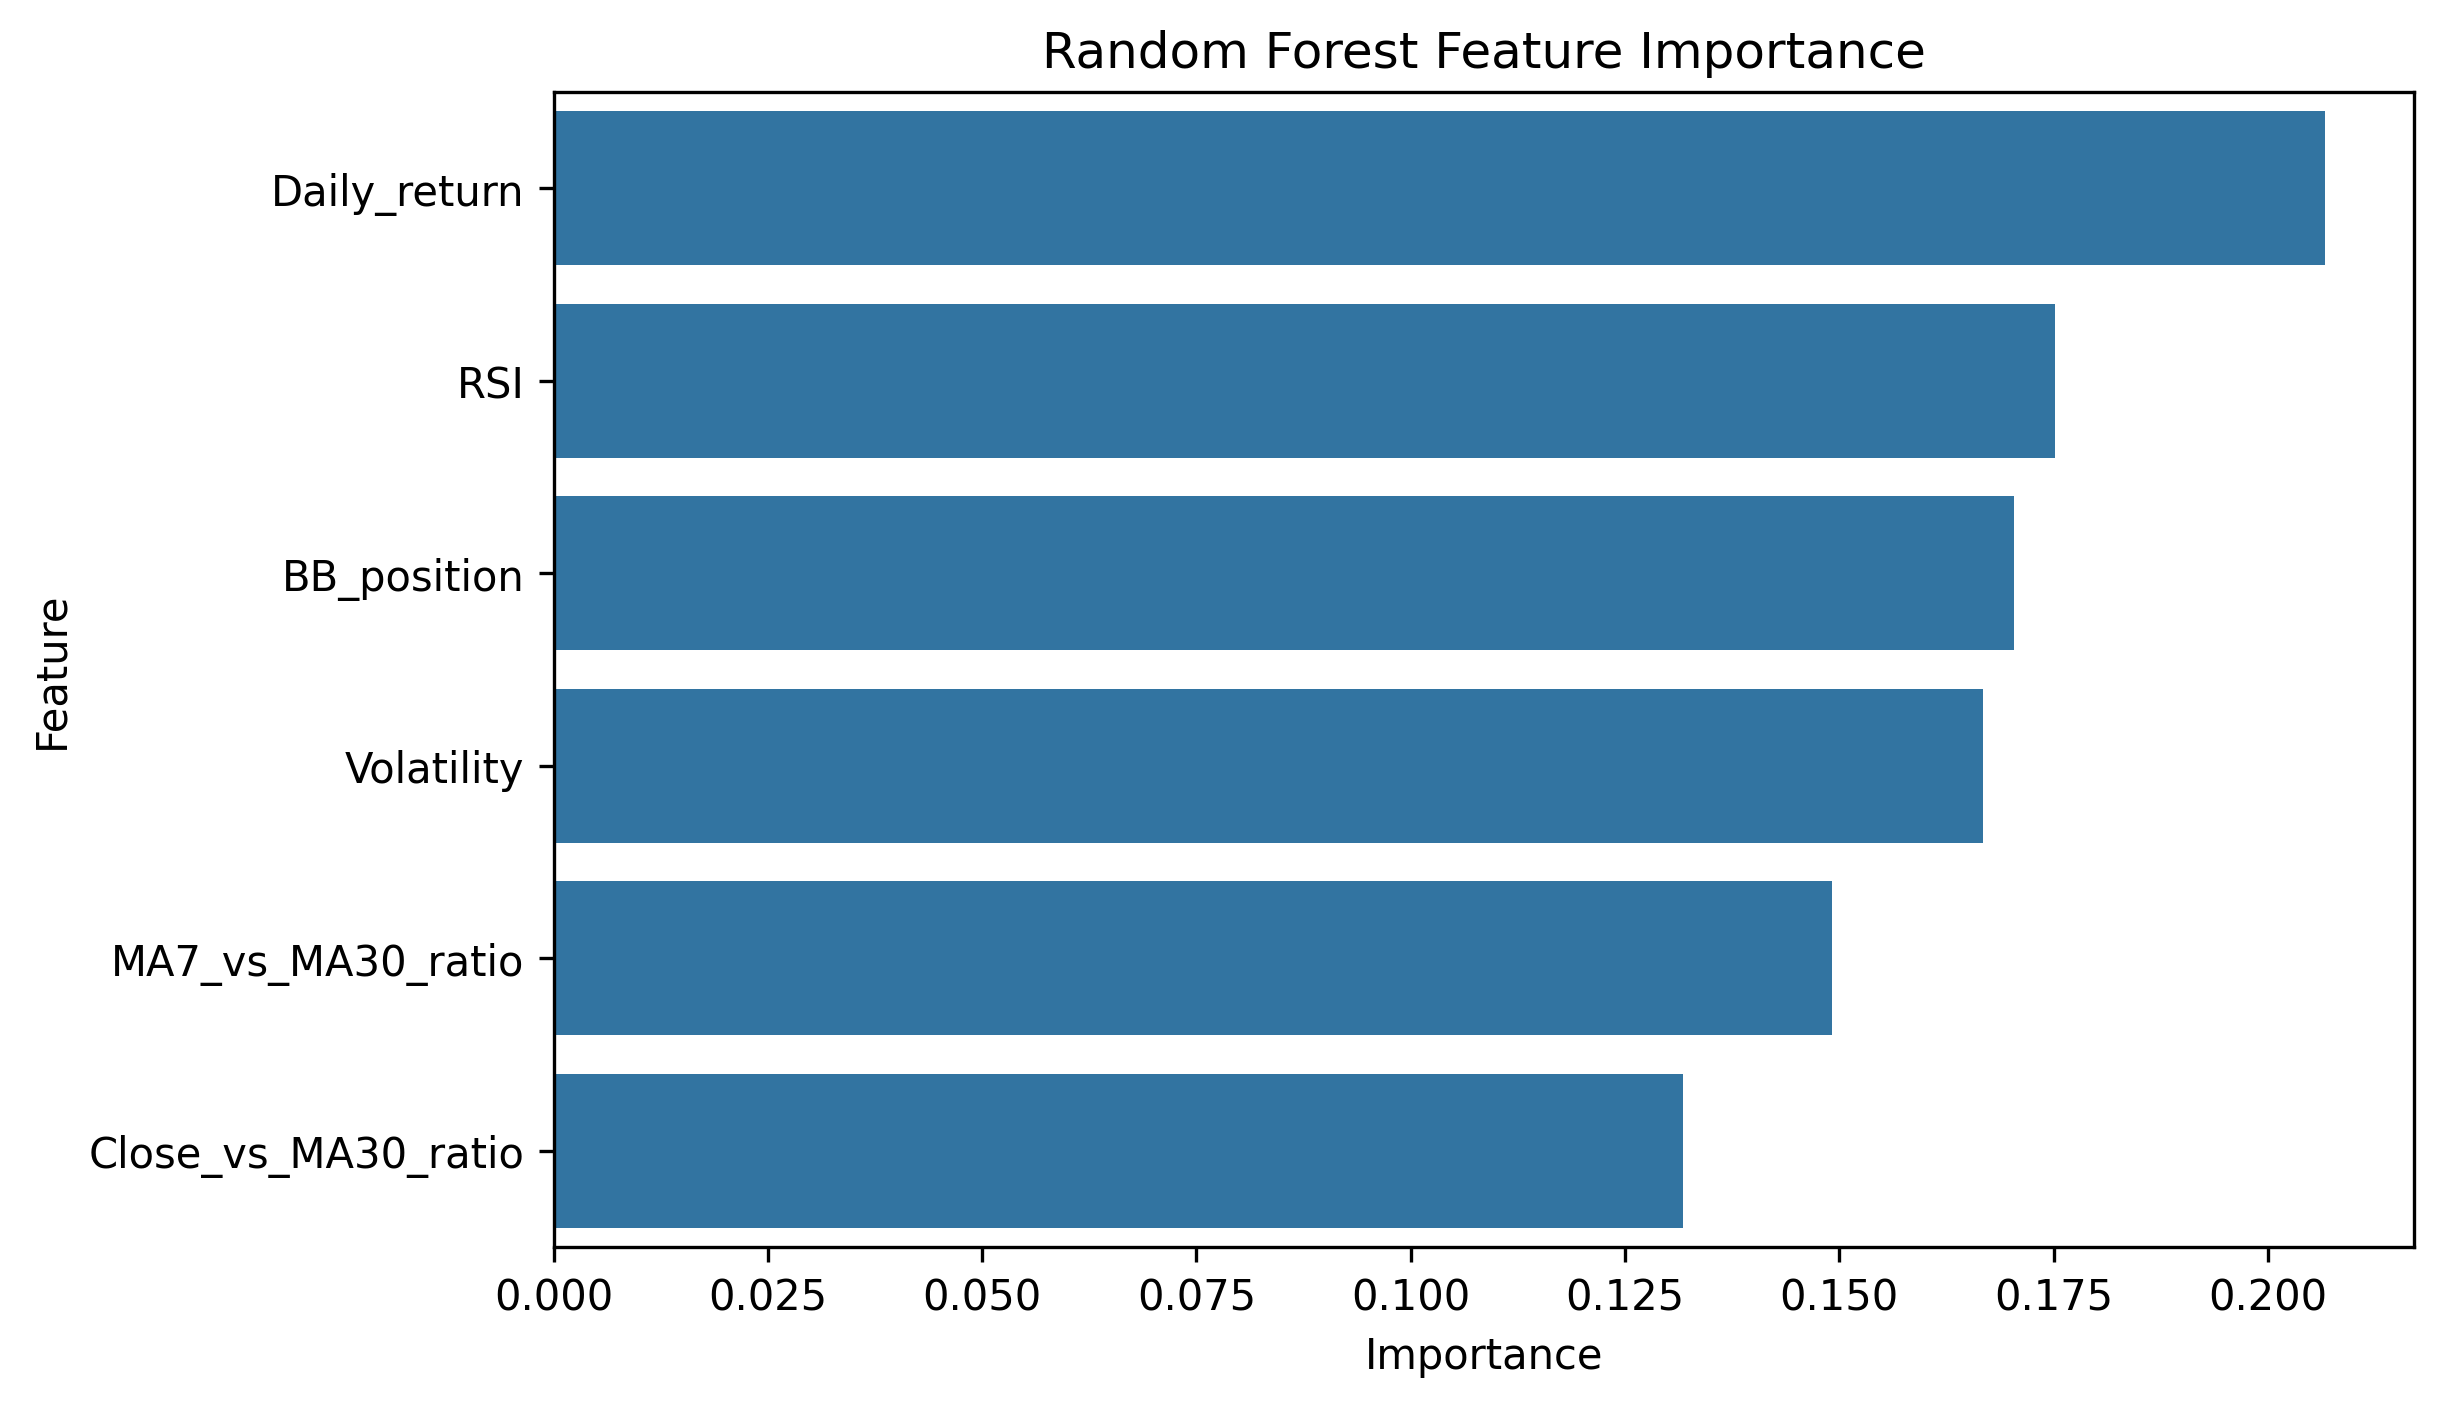
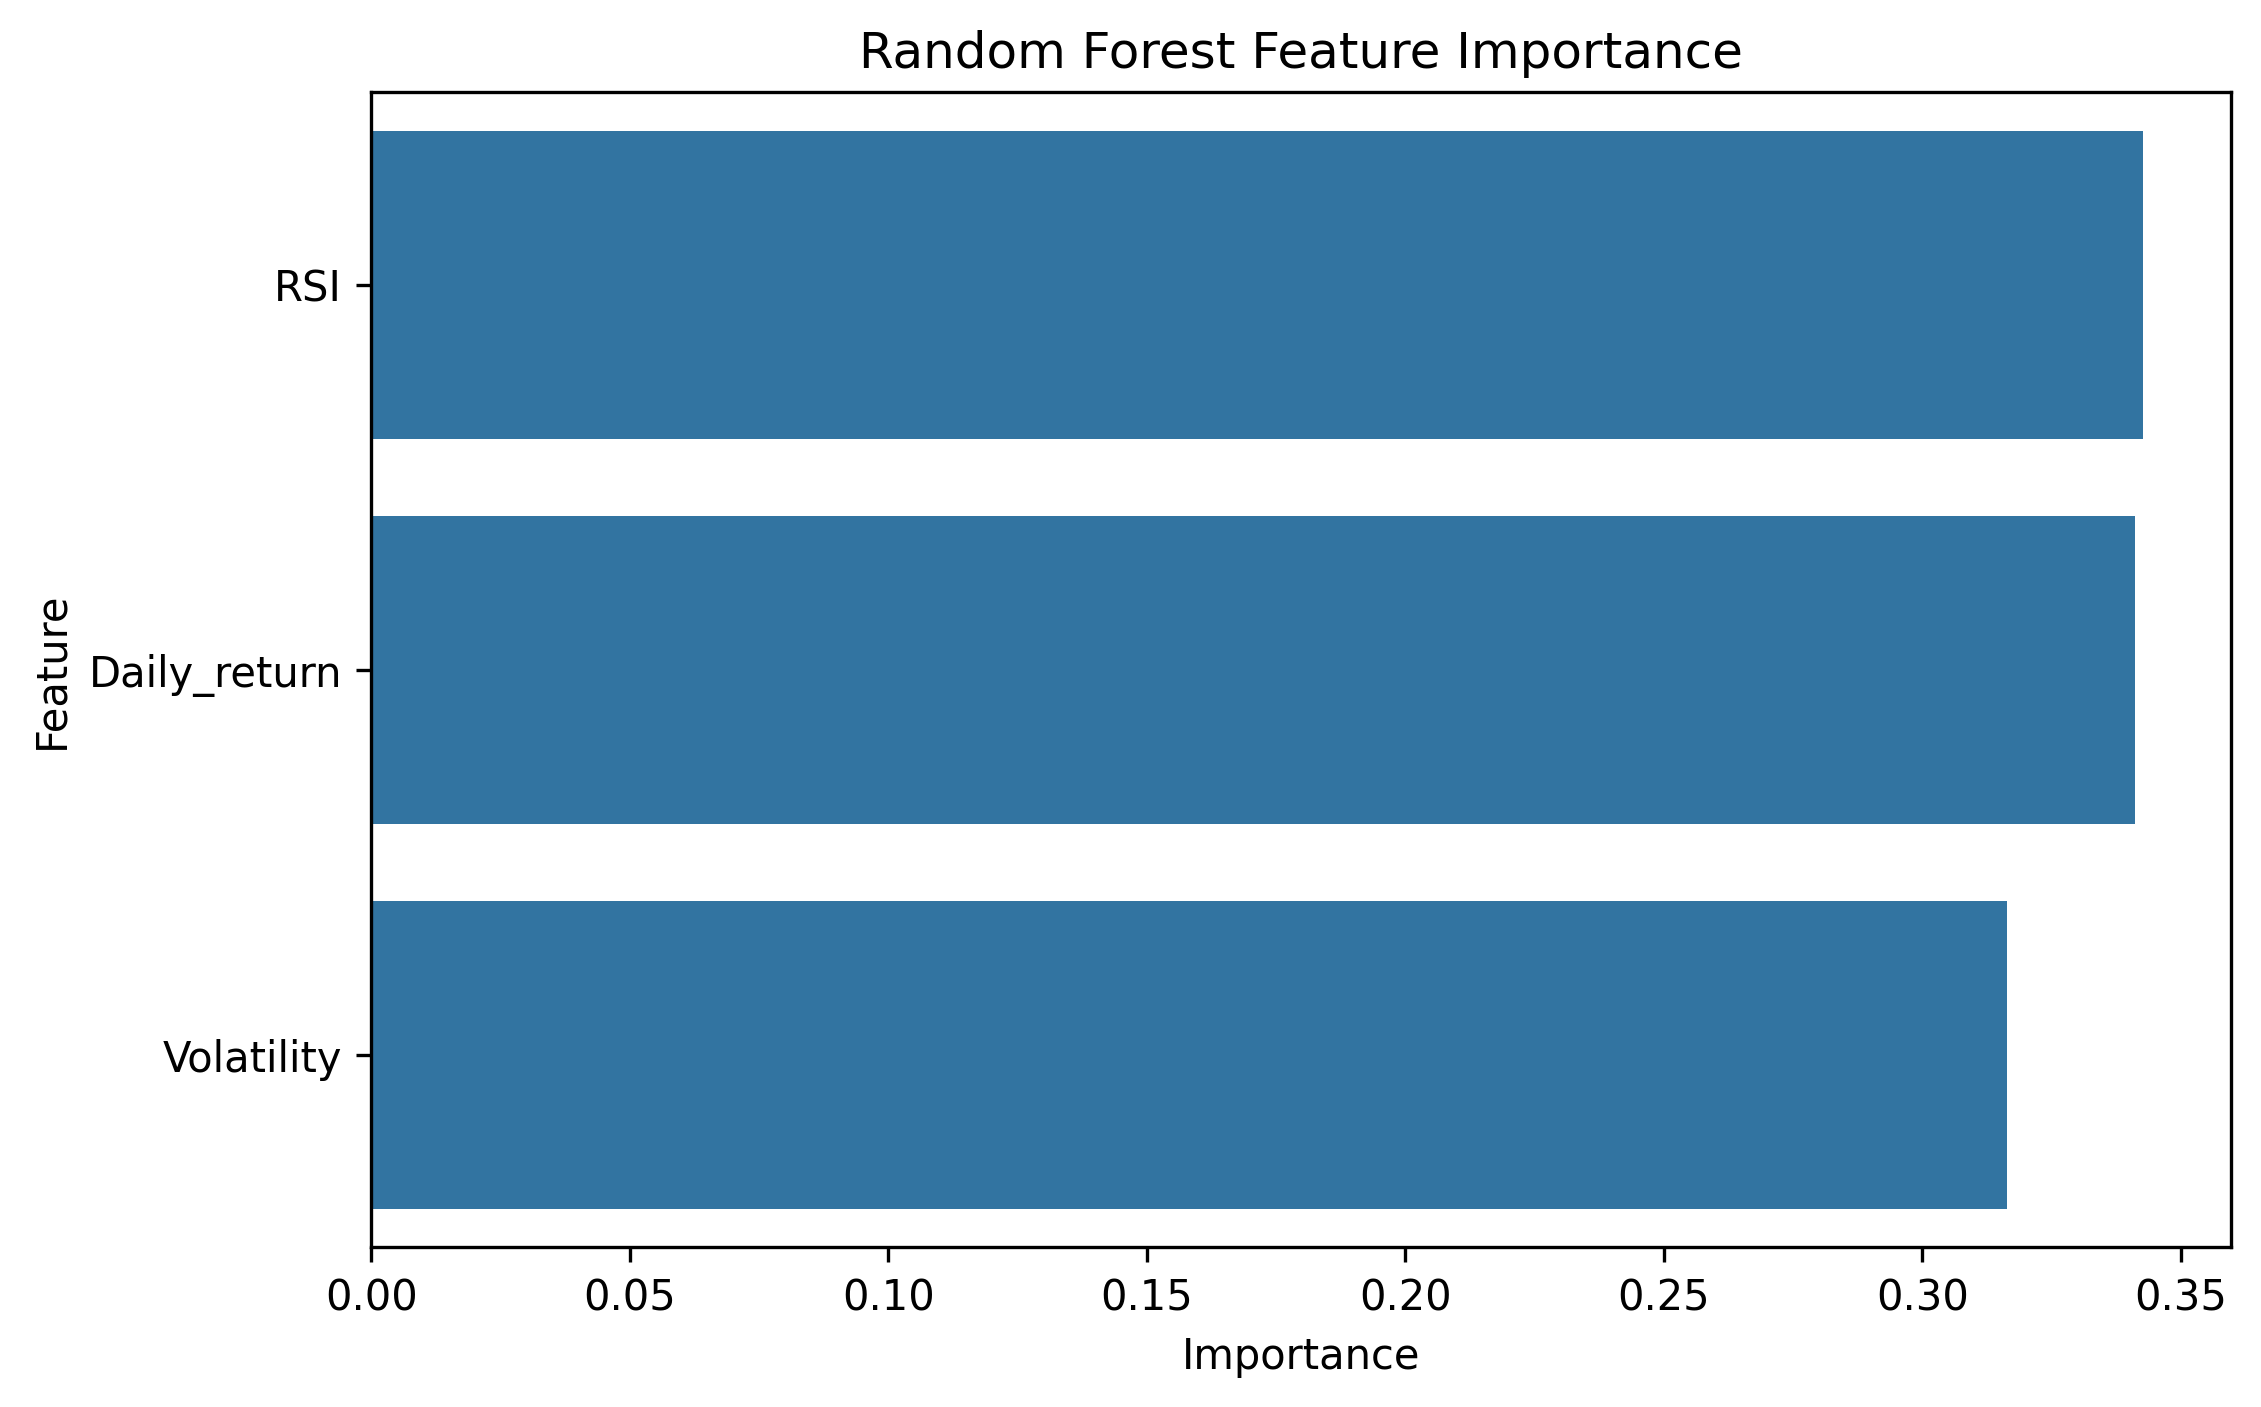
experimenting on feature selection

Changed region(s): [[0.0, 0.0306, 0.9907, 0.978], [0.8978, 0.8863, 0.9907, 0.9474]]

diff --git a/README.md b/README.md
@@ -394,6 +394,85 @@ MA7_vs_MA30_ratio
 
 This suggests that short-term Bitcoin direction is difficult to predict using technical indicators derived solely from historical price and volume data.
 
+### Experiment 4: Feature Selection
+
+#### Hypothesis
+
+Previous experiments consistently identified the following features as the strongest predictors:
+
+```text
+Daily_return
+RSI
+Volatility
+```
+
+It was hypothesized that removing lower-ranked features could reduce noise and improve model generalization.
+
+The reduced feature set consisted of:
+
+```text
+Daily_return
+RSI
+Volatility
+```
+
+#### Results
+
+Accuracy:
+
+```text
+51.01%
+```
+
+Feature Importance:
+
+```text
+RSI            34.3%
+Daily_return   34.1%
+Volatility     31.6%
+```
+
+#### Findings
+
+The reduced model relied heavily on the three selected features, assigning nearly equal importance to each.
+
+However, despite retaining only the strongest predictors, model performance declined relative to the baseline Random Forest model.
+
+Comparison:
+
+| Model Configuration    | Accuracy   |
+| ---------------------- | ---------- |
+| Baseline Random Forest | **52.09%** |
+| Top 3 Features Only    | 51.01%     |
+
+#### Interpretation
+
+The results suggest that lower-ranked features still contribute useful information to the prediction task.
+
+Although features such as:
+
+```text
+Close_vs_MA30_ratio
+MA7_vs_MA30_ratio
+```
+
+appeared less important individually, they provided complementary information that improved overall model performance.
+
+This demonstrates an important machine learning principle:
+
+> Features with lower importance scores are not necessarily useless. Multiple weak predictors can collectively improve model performance.
+
+#### Conclusion
+
+The hypothesis was not supported.
+
+* Removing lower-ranked features did not improve generalization.
+* Model accuracy decreased by approximately 1%.
+* The original feature set remained the strongest-performing configuration.
+
+This suggests that predictive information is distributed across multiple indicators rather than being concentrated in only a few dominant features.
+
+
 
 ## Experiment Summary
 
@@ -405,21 +484,28 @@ This suggests that short-term Bitcoin direction is difficult to predict using te
 | Random Forest (Baseline)                | **52.09%** |
 | Random Forest + MACD_ratio              | 51.25%     |
 | Random Forest + Return_7D + Return_30D  | 51.49%     |
+| Random Forest + BB_position             | 51.61%     |
+| Random Forest (Top 3 Features Only)     | 51.01%     |
 
----
-
-## Key Takeaways
+## Updated Key Takeaways
 
 * Random Forest consistently outperformed Logistic Regression.
 * Non-linear relationships exist within the technical indicators.
-* Traditional technical indicators contain a small amount of predictive signal.
-* Additional features such as MACD and multi-day momentum increased feature complexity but failed to improve out-of-sample accuracy.
-* Short-term Bitcoin direction remains difficult to predict using technical indicators derived solely from historical OHLCV data.
-* Model performance suggests that additional information sources or alternative feature engineering approaches may be required to achieve meaningful predictive gains.
+* Daily Return, RSI, and Volatility emerged as the most consistently important features across experiments.
+* MACD, Bollinger Bands, and Multi-Day Momentum features contained information but failed to improve out-of-sample accuracy.
+* Feature selection experiments showed that lower-ranked indicators still contributed complementary predictive information.
+* The baseline Random Forest model remained the best-performing configuration with an accuracy of 52.09%.
+* Short-term Bitcoin direction remains difficult to predict using traditional technical indicators derived solely from historical OHLCV data.
+* The results suggest that additional data sources or fundamentally different features may be required to achieve meaningful predictive improvements.
 
-## Conclusion
+## Overall Conclusion
 
-Multiple momentum and volatility-based indicators were evaluated. Although several engineered features achieved high model importance, none improved out-of-sample performance beyond the baseline Random Forest model (52.09%). This suggests that additional technical indicators largely capture information already present in the original feature set.
+Across multiple feature engineering and model experimentation cycles, the strongest-performing model remained the baseline Random Forest classifier with an accuracy of 52.09%.
+
+Several additional indicators—including MACD, Bollinger Bands, and multi-day momentum features—received substantial feature importance scores, demonstrating that they captured meaningful market information. However, none improved out-of-sample predictive performance.
+
+These findings suggest that while technical indicators contain a small amount of predictive signal, much of the useful information is already captured by the original feature set. The results also highlight the inherent difficulty of forecasting short-term Bitcoin price direction using only historical price and volume data.
+
 
 
 